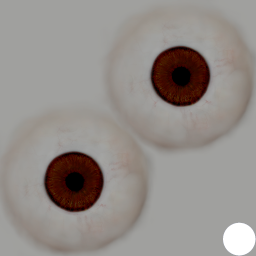
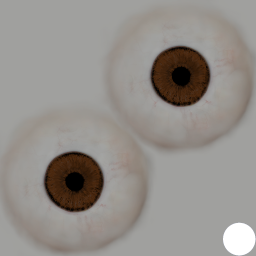
fix: les iris bruns des visages de Visage ne sont plus bordeaux
L'iris « brown » de MakeHuman est un rouge sombre très saturé (teinte
7°, saturation 0,99) : sur un visage, il se lit bordeaux. La chaîne
Blender le ramène à un brun naturel (teinte 24°, 70 % de sa
saturation), sans toucher au blanc de l'œil. Amara, Mei, Kofi et Kenji
en profitent ; leurs maillages ne changent pas.

Changed region(s): [[0.5938, 0.1875, 0.8125, 0.4062], [0.1875, 0.5938, 0.4062, 0.8125]]

diff --git a/data/sources/visage/tools/faces/build_faces.py b/data/sources/visage/tools/faces/build_faces.py
@@ -72,6 +72,33 @@ TEXTURES = {
 }
 
 
+# MakeHuman's "brown" iris is a deep, saturated red (hue 7°, saturation 0.99): on a face it reads burgundy.
+# Its iris turns to a natural brown, the hue and the share of its saturation kept below; the white, grey,
+# stays as it is.
+IRIS = {"brown": (24 / 360, 0.7)}
+
+
+def recolour_iris(image, hue, keep):
+    """The saturated pixels of an eye texture (the iris) to `hue`, `keep` of their saturation, same value."""
+    width, height = image.size
+    pixels = numpy.empty(width * height * 4, dtype=numpy.float32)
+    image.pixels.foreach_get(pixels)
+    pixels = pixels.reshape(-1, 4)
+    rgb = pixels[:, :3]
+    value = rgb.max(1)
+    saturation = numpy.where(value > 0, (value - rgb.min(1)) / numpy.maximum(value, 1e-6), 0)
+    iris = numpy.clip((saturation - 0.25) / 0.2, 0, 1)[:, None]
+    chroma = value * saturation * keep
+    sector = hue * 6
+    second = chroma * (1 - abs(sector % 2 - 1))
+    zero = numpy.zeros_like(chroma)
+    order = [(chroma, second, zero), (second, chroma, zero), (zero, chroma, second),
+             (zero, second, chroma), (second, zero, chroma), (chroma, zero, second)][int(sector) % 6]
+    recoloured = numpy.stack(order, 1) + (value - chroma)[:, None]
+    pixels[:, :3] = rgb * (1 - iris) + recoloured * iris
+    image.pixels.foreach_set(pixels.ravel())
+
+
 def skin_folder(preset):
     """MakeHuman's skins come by age, origin and gender: the nearest to the preset."""
     age = "young" if preset["age"] < 35 else "middleage" if preset["age"] < 55 else "old"
@@ -135,6 +162,8 @@ def write_textures(preset, data, output, skin_box):
             bpy.data.images.remove(whole)
         else:
             image.scale(size, size)
+        if part == "eyes" and preset["eyes"] in IRIS:
+            recolour_iris(image, *IRIS[preset["eyes"]])
         target = os.path.join(output, f"{preset['id']}.{part}.{'png' if alpha else 'jpg'}")
         settings = bpy.context.scene.render.image_settings
         settings.file_format = "PNG" if alpha else "JPEG"
